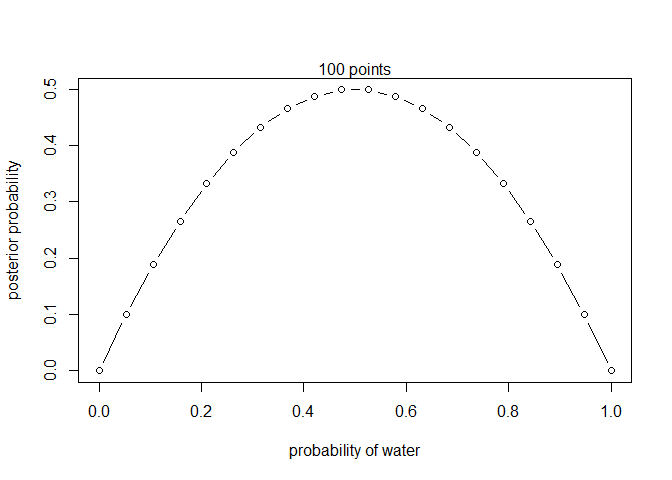
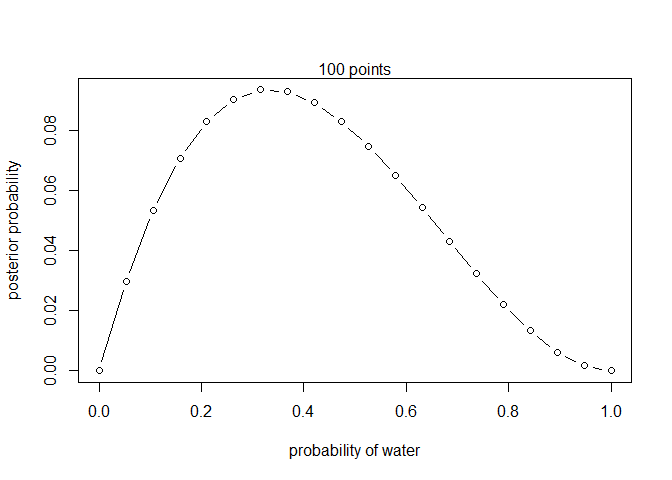
add ch 2

diff --git a/grid_approximation.md b/grid_approximation.md
@@ -1,42 +1,65 @@
-R Notebook
+Chapter 2
 ================
 
-This is an [R Markdown](http://rmarkdown.rstudio.com) Notebook. When you
-execute code within the notebook, the results appear beneath the code.
-
-Try executing this chunk by clicking the *Run* button within the chunk
-or by placing your cursor inside it and pressing *Ctrl+Shift+Enter*.
-
 ``` r
-plot(cars)
+library(rethinking)
 ```
 
-![](grid_approximation_files/figure-gfm/unnamed-chunk-1-1.png)<!-- -->
+    ## Загрузка требуемого пакета: rstan
 
-Add a new chunk by clicking the *Insert Chunk* button on the toolbar or
-by pressing *Ctrl+Alt+I*.
+    ## Загрузка требуемого пакета: StanHeaders
 
-When you save the notebook, an HTML file containing the code and output
-will be saved alongside it (click the *Preview* button or press
-*Ctrl+Shift+K* to preview the HTML file).
+    ## Загрузка требуемого пакета: ggplot2
 
-The preview shows you a rendered HTML copy of the contents of the
-editor. Consequently, unlike *Knit*, *Preview* does not run any R code
-chunks. Instead, the output of the chunk when it was last run in the
-editor is displayed.
+    ## rstan (Version 2.21.2, GitRev: 2e1f913d3ca3)
+
+    ## For execution on a local, multicore CPU with excess RAM we recommend calling
+    ## options(mc.cores = parallel::detectCores()).
+    ## To avoid recompilation of unchanged Stan programs, we recommend calling
+    ## rstan_options(auto_write = TRUE)
+
+    ## Do not specify '-march=native' in 'LOCAL_CPPFLAGS' or a Makevars file
+
+    ## Загрузка требуемого пакета: parallel
+
+    ## rethinking (Version 2.13)
+
+    ## 
+    ## Присоединяю пакет: 'rethinking'
+
+    ## Следующий объект скрыт от 'package:stats':
+    ## 
+    ##     rstudent
+
+**Grid Approximation**
+
+1 Define the grid. This means you decide how many points to use in
+estimating the  
+posterior, and then you make a list of the parameter values on the grid.
+
+2 Compute the value of the prior at each parameter value on the grid.
+
+3 Compute the likelihood at each parameter value.
+
+4 Compute the unstandardized posterior at each parameter value, by
+multiplying the  
+prior by the likelihood.
+
+5 Finally, standardize the posterior, by dividing each value by the sum
+of all values.
 
 ``` r
 # define grid
-p_grid <- seq( from=0 , to=1 , length.out=20)
+p_grid <- seq( from=0 , to=1 , length.out=20 )
 
 # define prior
-# prior <- rep( 1 , 30 )
+prior <- rep( 1 , 20 )
 # prior <- ifelse( p_grid < 0.5 , 0 , 1 )
-prior <- dbinom(1, size = 2, prob = p_grid)
+# prior <- dbinom(1, size = 2, prob = p_grid)
 # prior <- exp( -5*abs( p_grid - 0.5 ) )
 
 # compute likelihood at each value in grid
-likelihood <- dbinom( 1 , size= 2, prob=p_grid )
+likelihood <- dbinom( 1 , size= 3, prob=p_grid )
 
 # compute product of likelihood and prior
 unstd.posterior <- likelihood * prior
@@ -45,9 +68,89 @@ unstd.posterior <- likelihood * prior
 posterior <- unstd.posterior / sum(unstd.posterior)
 
 
-plot( p_grid , likelihood  , type="b" ,
+plot( p_grid , posterior  , type="b" ,
       xlab="probability of water" , ylab="posterior probability" )
 mtext( "100 points" )
 ```
 
 ![](grid_approximation_files/figure-gfm/unnamed-chunk-2-1.png)<!-- -->
+
+**Quadratic Approximation**
+
+``` r
+globe.qa <- quap(
+  alist(
+    W ~ dbinom( W+L ,p) , # binomial likelihood
+    p ~ dunif(0,1) # uniform prior
+) ,
+data=list(W=6,L=3) )
+
+# display summary of quadratic approximation
+precis( globe.qa )
+```
+
+    ##        mean        sd      5.5%     94.5%
+    ## p 0.6666663 0.1571339 0.4155361 0.9177966
+
+Since we already know the posterior, let’s compare to see how good the
+approximation is.
+
+``` r
+# analytical calculation 2.7
+W <- 6
+L <- 3
+curve( dbeta( x , W+1 , L+1 ) , from=0 , to=1 )
+# quadratic approximation
+curve( dnorm( x , 0.67 , 0.16 ) , lty=2 , add=TRUE )
+```
+
+![](grid_approximation_files/figure-gfm/unnamed-chunk-4-1.png)<!-- -->
+
+**Monte Carlo globe tossing example**
+
+``` r
+n_samples <- 1000
+p <- rep( NA , n_samples )
+p[1] <- 0.5
+W <- 6
+L <- 3
+for ( i in 2:n_samples ) {
+p_new <- rnorm( 1 , p[i-1] , 0.1 )
+if ( p_new < 0 ) p_new <- abs( p_new )
+if ( p_new > 1 ) p_new <- 2 - p_new
+q0 <- dbinom( W , W+L , p[i-1] )
+q1 <- dbinom( W , W+L , p_new )
+p[i] <- ifelse( runif(1) < q1/q0 , p_new , p[i-1] )
+}
+
+dens( p , xlim=c(0,1) )
+curve( dbeta( x , W+1 , L+1 ) , lty=2 , add=TRUE )
+```
+
+![](grid_approximation_files/figure-gfm/unnamed-chunk-5-1.png)<!-- -->
+
+**2.5. Summary**
+
+This chapter introduced the conceptual mechanics of Bayesian data
+analysis. The target of inference in Bayesian inference is a posterior
+probability distribution. Posterior probabilities state the relative
+numbers of ways each conjectured cause of the data could have produced
+the data. These relative numbers indicate plausibilities of the
+different conjectures. These plausibilities are updated in light of
+observations through Bayesian updating.
+
+More mechanically, a Bayesian model is a composite of variables and
+distributional definitions for these variables. The probability of the
+data, often called the likelihood, provides the plausibility of an
+observation (data), given a fixed value for the parameters. The prior
+provides the plausibility of each possible value of the parameters,
+before accounting for the data. The rules of probability tell us that
+the logical way to compute the plausibilities, after accounting for the
+data, is to use Bayes’ theorem. This results in the posterior
+distribution.
+
+In practice, Bayesian models are fit to data using numerical techniques,
+like grid approximation, quadratic approximation, and Markov chain Monte
+Carlo. Each method imposes different trade-offs.
+
+**2.6. Practice**
